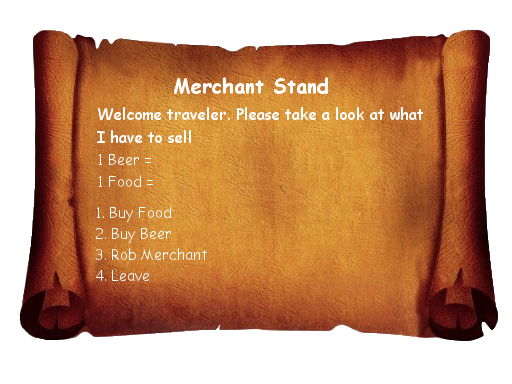
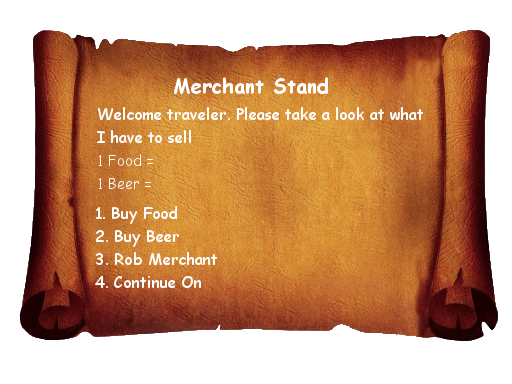
new menues

Changed region(s): [[0.1875, 0.5312, 0.4375, 0.75], [0.2188, 0.4688, 0.3125, 0.5], [0.2188, 0.4062, 0.3125, 0.4375]]

diff --git a/Lab1Template/source/Wagon.cpp b/Lab1Template/source/Wagon.cpp
@@ -187,6 +187,18 @@ void Wagon::init(TextureLoader* texLoader, Terrain* aTerrain, Menu* aMenu,
   bmp = tdogl::Bitmap::bitmapFromFile("assets/beggarMenu.png");
   beggarMenu = new tdogl::pngTexture(bmp, GL_LINEAR, GL_REPEAT);
 
+  bmp = tdogl::Bitmap::bitmapFromFile("assets/cantHealMenu.png");
+  cantHealMenu = new tdogl::pngTexture(bmp, GL_LINEAR, GL_REPEAT);
+
+  bmp = tdogl::Bitmap::bitmapFromFile("assets/maxMercsMenu.png");
+  maxMercsMenu = new tdogl::pngTexture(bmp, GL_LINEAR, GL_REPEAT);
+
+  bmp = tdogl::Bitmap::bitmapFromFile("assets/noGoldWandererMenu.png");
+  noGoldWandererMenu = new tdogl::pngTexture(bmp, GL_LINEAR, GL_REPEAT);
+
+  bmp = tdogl::Bitmap::bitmapFromFile("assets/noGoldWandererMenu.png");
+  noGoldWandererMenu = new tdogl::pngTexture(bmp, GL_LINEAR, GL_REPEAT);
+
     //unbind the arrays
     glBindBuffer(GL_ARRAY_BUFFER, 0);
     glBindBuffer(GL_ELEMENT_ARRAY_BUFFER, 0);
@@ -404,6 +416,8 @@ void Wagon::updateWagon(float globalTime) {
             }
             if(event == SICKNESS){
                 vector<string> dataStuffs;
+                int textNum = 2;
+                tdogl::pngTexture* tempMenu = sicknessMenu;
                 soundSys->playVoice(ANGRY_YELL);
                 *gamePaused = true;
                 //Create about vector and add an element
@@ -441,6 +455,9 @@ void Wagon::updateWagon(float globalTime) {
                     options.push_back(healOpt);
                     options.push_back(hurtOpt);
                 }else{
+                  //input loaded cantHealMenu HERE!!!!!!!!!
+                    textNum = 13;
+                    tempMenu = cantHealMenu;
                     about.push_back("But it looks like you don't have enough");
                     about.push_back("beer and meat to treat them like they deserve!");
                     fpResume = resumeGame;
@@ -448,7 +465,7 @@ void Wagon::updateWagon(float globalTime) {
                     options.push_back(resumeOpt);
                 }
                 //Set the data
-                menu->setData("Sickness", about, options, &sicknessMenu, 2, dataStuffs);
+                menu->setData("Sickness", about, options, &tempMenu, textNum, dataStuffs);
                 for(int i = 0; i < manager->mercs.size(); i++) {
                     if (manager->mercs[i].currHealth > 0) {
                         manager->mercs[i].dae->startAnimation("punch");
@@ -468,18 +485,26 @@ void Wagon::updateWagon(float globalTime) {
                 //Create about vector and add an element
                 vector<option> options;
                 vector<string> dataStuffs;
+                int textNum = 3;
+                tdogl::pngTexture* textPointer = buyMercMenu;
                 // Obj3d temp(&((*meshData).terrMeshes[1]), scale, trans, rot);
                 // Mercenary *newMerc = new Mercenary(meshData->);
                 string name = "A lone wanderer";
                 dataStuffs.push_back(name);
                 about.push_back(name + " wants to join your party,");
 
+                //set loaded maxMercsMenu HERE!!!!!!!!!!
                 if(manager->getMercs() >= MAX_MERC){
                     about.push_back("but your crew at max size!");
-                    dataStuffs.push_back(to_string(cost));
+                    // dataStuffs.push_back(to_string(cost));
+                    textNum = 14;
+                    textPointer = maxMercsMenu;
                 }else if(manager->getGold() < cost){
+                  //set loaded noGoldWandererMenu HERE!!!!!!!!
                     about.push_back("but you're a little short on gold!");
-                    dataStuffs.push_back(to_string(cost));
+                    // dataStuffs.push_back(to_string(cost));
+                    textNum = 15;
+                    textPointer = noGoldWandererMenu;
                 }else{
                     string aboutString = "buy this mercenary for ";
                     dataStuffs.push_back(to_string(cost));
@@ -495,7 +520,7 @@ void Wagon::updateWagon(float globalTime) {
                 options.push_back(resumeOpt);
 
                 //Set the data
-                menu->setData("Wanderer", about, options, &buyMercMenu, 3, dataStuffs);
+                menu->setData("Wanderer", about, options, &textPointer, textNum, dataStuffs);
                 for(int i = 0; i < manager->mercs.size(); i++) {
                     if (manager->mercs[i].currHealth > 0) {
                         manager->mercs[i].dae->startAnimation("punch");
@@ -536,14 +561,29 @@ void Wagon::updateWagon(float globalTime) {
                 vector<string> dataStuffs;
                 vector<string> about;
                 if(manager->getGold() >= 20)
+                {
                     about.push_back("Donate 20 gold to poor beggar?");
+                    dataStuffs.push_back("20");
+                }
                 else if(manager->getGold() >= 10)
+                {
                     about.push_back("Donate 10 gold to poor beggar?");
-                else if(manager->getFood() >= 3)
-                    about.push_back("Donate 3 meat to poor beggar?");
-                else if(manager->getBeer() >= 3)
-                    about.push_back("Donate 3 beer to poor beggar?"); 
-                dataStuffs.push_back("10");
+                    dataStuffs.push_back("10");
+                }
+                else
+                {
+                  dataStuffs.push_back("0");
+                }
+                // else if(manager->getFood() >= 3)
+                // {
+                //     about.push_back("Donate 3 meat to poor beggar?");
+                //     dataStuffs.push_back("10");
+                // }
+                // else if(manager->getBeer() >= 3)
+                // {
+                //     about.push_back("Donate 3 beer to poor beggar?"); 
+                //     dataStuffs.push_back("10");
+                // }
 
 
                 about.push_back("The townspeople will notice your kindness");  

diff --git a/Lab1Template/source/manager.cpp b/Lab1Template/source/manager.cpp
@@ -30,13 +30,10 @@ void Manager::init(Menu *m, bool *gp, FadeSystem *fS, SoundPlayer *aud){
 
 	tdogl::Bitmap bmp = tdogl::Bitmap::bitmapFromFile("assets/oopsRanMenu.png");
 	oopsRanMenu = new tdogl::pngTexture(bmp, GL_LINEAR, GL_REPEAT);
-
-	bmp = tdogl::Bitmap::bitmapFromFile("assets/noGoldWandererMenu.png");
-	noGoldWandererMenu = new tdogl::pngTexture(bmp, GL_LINEAR, GL_REPEAT);
-
 	
 
-	bmp = tdogl::Bitmap::bitmapFromFile("assets/merchantRobbed.png");
+	// bmp = tdogl::Bitmap::bitmapFromFile("assets/merchantRobbed.png");
+	bmp = tdogl::Bitmap::bitmapFromFile("assets/robberyMenu.png");
 	merchantRobbedMenu = new tdogl::pngTexture(bmp, GL_LINEAR, GL_REPEAT);
 
 	
@@ -49,6 +46,13 @@ void Manager::init(Menu *m, bool *gp, FadeSystem *fS, SoundPlayer *aud){
 
 	bmp = tdogl::Bitmap::bitmapFromFile("assets/cowardMenu.png");
 	cowardMenu = new tdogl::pngTexture(bmp, GL_LINEAR, GL_REPEAT);
+
+	bmp = tdogl::Bitmap::bitmapFromFile("assets/skilledMerchantMenu.png");
+	skilledMerchantMenu = new tdogl::pngTexture(bmp, GL_LINEAR, GL_REPEAT);
+
+	// bmp = tdogl::Bitmap::bitmapFromFile("assets/robberyMenu.png");
+	// robberyMenu = new tdogl::pngTexture(bmp, GL_LINEAR, GL_REPEAT);
+
 
 	
 
@@ -116,6 +120,7 @@ void Manager::completedTrail(){
 			mercs[i].currHunger = mercs[i].maxHunger;
 		}
 	}
+	//trailConqueredMenu HERE!!!!!!!!!!
 	// vector<string> dataStuffs;
  //    vector<string> about;
  //    about.push_back("Congratulations on overcoming the trail!");  
@@ -242,9 +247,13 @@ void Manager::fleeingFromAmbush(){
 		
 		string aboutString = "They took " + to_string((goldLoss)) + "gold,";
 		about.push_back(aboutString);
+		dataStuffs.clear();
+		dataStuffs.push_back(to_string(goldLoss));
 	
 		aboutString = ", " + to_string(foodLoss) + "food, and" + to_string(beerLoss) + "beer!";
 		about.push_back(aboutString);
+		dataStuffs.push_back(to_string(foodLoss));
+		dataStuffs.push_back(to_string(beerLoss));
 	}
 
     fpContinue = continueGame;
@@ -385,9 +394,10 @@ void Manager::fightingFromMerchant(int numGaurds, int gaurdDamage){
 	    options.push_back(resumeOpt);
 	    options.push_back(resume2Opt);
 	    //Set the data
-	    //TODO!!!!!!!!!!!!!!!!!!!!!!!!!!!!!!!!!!!!!!!!!!!!!!!!!!!!!!!!!!!
-	    menu->setData("Skilled merchant", about, options, &diedMenu, 10, about);
+	    //input loaded skilledMerchantMenu HERE!!!!!!!!! TODO!!!!!!!!!!!!!!!!!!!!!!!!!!!!!!!!!!!!!!!!!!!!!!!!!!!!!!!!!!!
+	    menu->setData("Skilled merchant", about, options, &skilledMerchantMenu, 12, about);
 	}else{
+		//robberyMenu HERE!!!!!!!!!!!
 		gold += goldGain;
 		dataStuffs.push_back(to_string(goldGain));
 		string aboutString = "You reaped " + to_string(goldGain) + "gold";

diff --git a/Lab1Template/source/menu.cpp b/Lab1Template/source/menu.cpp
@@ -125,43 +125,100 @@ void Menu::drawMenu()
 
 	if(menuType == 0)
 	{
-
+		//nothing
 	}
 	else if(menuType == 1)
 	{
-		printText2D(data[0].c_str(), 280, 304, 15);
-		printText2D(data[1].c_str(), 280, 325, 15);
+
+		//merchant menu - meat beer
+		printText2D(data[1].c_str(), 280, 304, 15);
+		printText2D(data[0].c_str(), 280, 325, 15);
 	}
 	else if(menuType == 2)
 	{
-		printText2D(data[0].c_str(), 210, 345, 16);
-		printText2D(data[1].c_str(), 210, 325, 16);
+		// sickness
+		printText2D(data[2].c_str(), 248, 294, 16);
+		printText2D(data[3].c_str(), 357, 294, 16);
 		// printText2D(data[2].c_str(), 210, 204, 15);
+		// good
 	}
 	else if(menuType == 3)
 	{
-		printText2D(data[0].c_str(), 205, 345, 16);
-		printText2D(data[1].c_str(), 420, 322, 16);
+		// buy merc
+		// gold
+		// printText2D(data[0].c_str(), 205, 345, 16);
+		printText2D(data[1].c_str(), 407, 297, 16);
+		// good
 	}
 	else if(menuType == 4)
 	{
-		
+		//bandits
+		//nothing
 	}
 	else if(menuType == 5)
 	{
-		
+		//beggar
+		//gold
+		printText2D(data[0].c_str(), 269, 344, 16);
+		// printText2D(data[0].c_str(), 200, 200, 20);
+		// good
 	}
 	else if(menuType == 6)
 	{
-		
+		//oops
+		//nothing
 	}
 	else if(menuType == 7)
 	{
-		
+		// ?
 	}
 	else if(menuType == 8)
 	{
-		
+		// merchant robbed
+		printText2D(data[0].c_str(), 301, 348, 16);
+		// good
+	}
+	else if(menuType == 9)
+	{
+		// fight won gold beer food
+		printText2D(data[0].c_str(), 299, 329, 16);
+		printText2D(data[1].c_str(), 383, 329, 16);
+		printText2D(data[2].c_str(), 496, 329, 16);
+		// good
+	}
+	else if(menuType == 10)
+	{
+		// die
+		// nothing
+	}
+	else if(menuType == 11)
+	{
+		// coward flee gold beer food
+		printText2D(data[0].c_str(), 294, 321, 16); // gold
+		// printText2D(data[3].c_str(), 357, 294, 16);
+
+		//add food and beer here
+	}
+	else if(menuType == 12)
+	{
+		// skilled merchant
+		// nothing
+		// good
+	}
+	else if(menuType == 13)
+	{
+		// cant heal
+	}
+	else if(menuType == 14)
+	{
+		// noting max mercs
+		// good
+	}
+	else if(menuType == 15)
+	{
+		// no gold wanderer
+		// nothing
+		// good
 	}
 
 	//sprintf(info,"x %d", manager.getMercs());

diff --git a/Lab1Template/source/manager.h b/Lab1Template/source/manager.h
@@ -90,11 +90,14 @@ class Manager
 		SoundPlayer *audio;
 
 		tdogl::pngTexture* oopsRanMenu; //6
-		tdogl::pngTexture* noGoldWandererMenu; //7
+		
 		tdogl::pngTexture* merchantRobbedMenu; //8
 		tdogl::pngTexture* fightWonMenu; //9
 		tdogl::pngTexture* diedMenu; //10
 		tdogl::pngTexture* cowardMenu; //11
+		tdogl::pngTexture* skilledMerchantMenu; //12
+		// tdogl::pngTexture* robberyMenu; //13
+
 		
 		
 

diff --git a/Lab1Template/source/Wagon.h b/Lab1Template/source/Wagon.h
@@ -106,6 +106,10 @@ private:
 	tdogl::pngTexture* buyMercMenu; //3
 	tdogl::pngTexture* banditsMenu; //4
 	tdogl::pngTexture* beggarMenu; //5
+	// tdogl::pngTexture* noGoldWandererMenu; //7
+	tdogl::pngTexture* cantHealMenu; //13
+	tdogl::pngTexture* maxMercsMenu; //14
+	tdogl::pngTexture* noGoldWandererMenu; //15
     CharDae* horse;
 };
 
